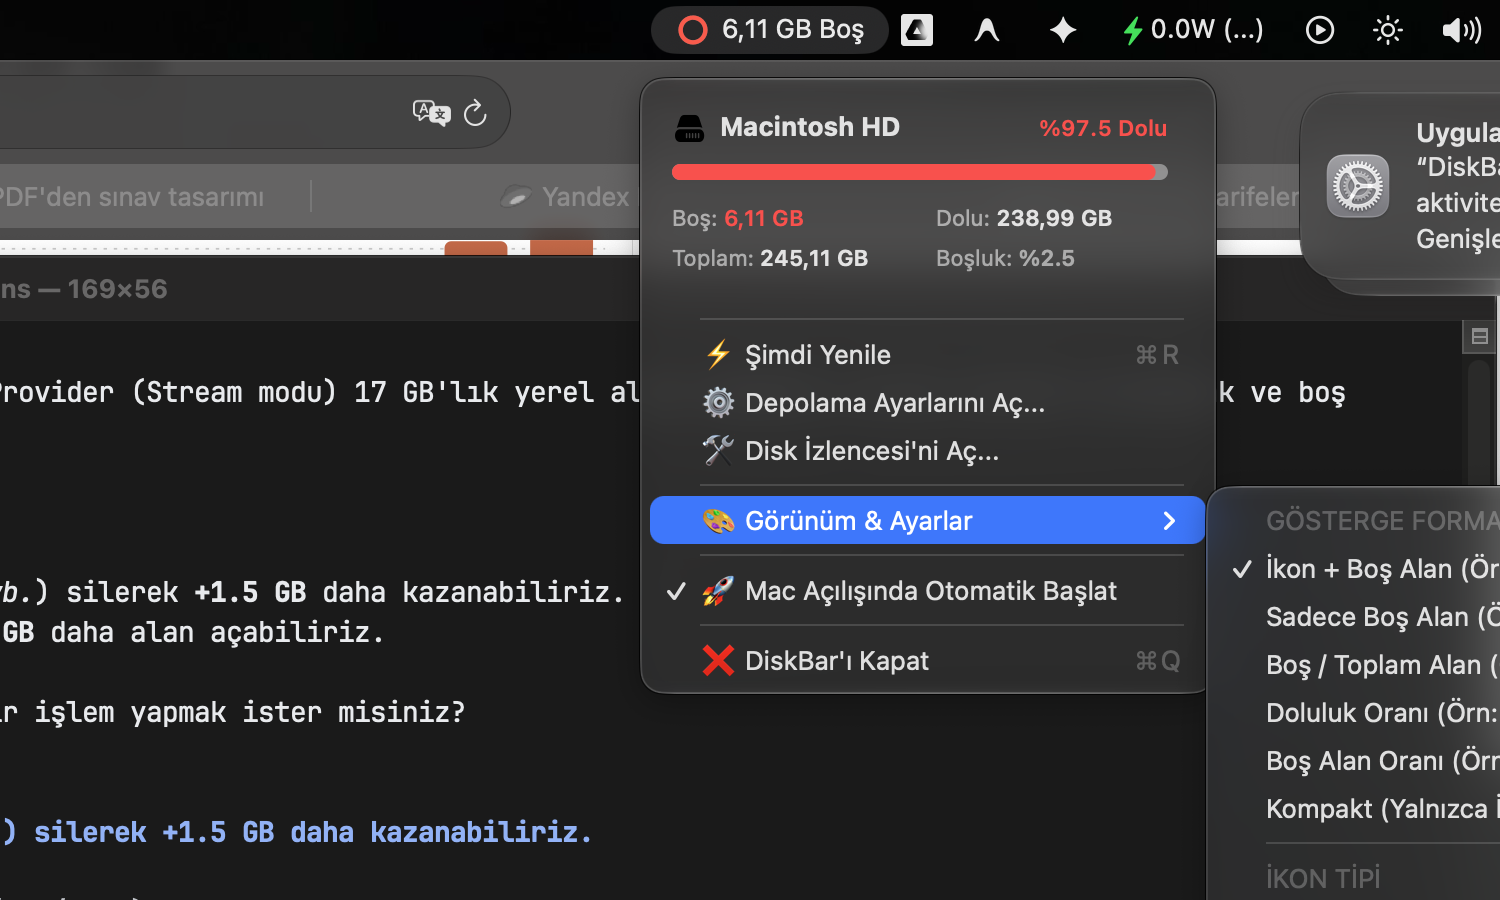
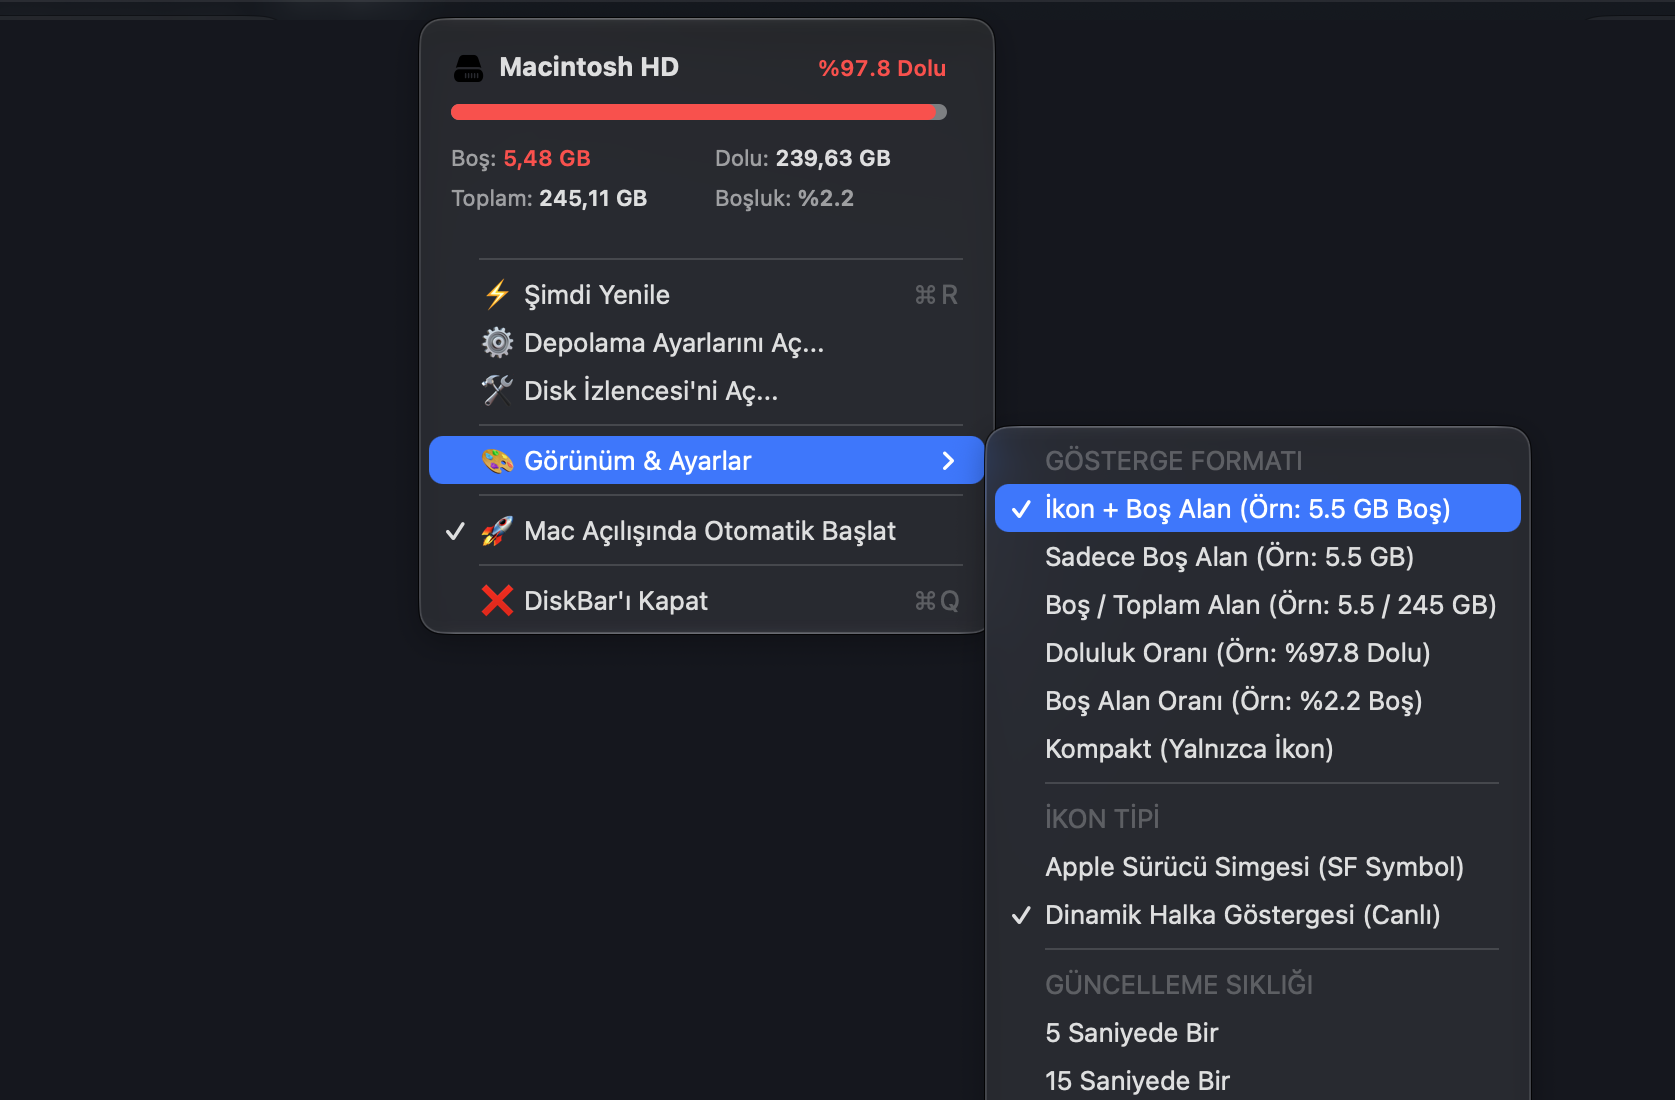
docs: Update clean screenshots with zero background noise, add DMG & curl install methods

diff --git a/README.md b/README.md
@@ -13,8 +13,15 @@
   <img src="https://img.shields.io/badge/Architecture-Apple%20Silicon%20%7C%20Intel-purple" alt="Universal" />
   <img src="https://img.shields.io/badge/Swift-5.9%2B-orange?logo=swift" alt="Swift 5.9+" />
   <img src="https://img.shields.io/badge/CPU%20Usage-0.0%25-brightgreen" alt="0.0% CPU" />
+  <img src="https://img.shields.io/badge/Security-100%25%20Offline%20%7C%20No%20Sudo-success" alt="Security" />
   <img src="https://img.shields.io/badge/License-MIT-green" alt="MIT License" />
   <a href="https://github.com/kuarezma/DiskBar/stargazers"><img src="https://img.shields.io/github/stars/kuarezma/DiskBar?style=social" alt="GitHub Stars" /></a>
+</p>
+
+<p align="center">
+  <a href="https://github.com/kuarezma/DiskBar/releases/latest/download/DiskBar.dmg">
+    <img src="https://img.shields.io/badge/Download-DiskBar.dmg-2ea44f?style=for-the-badge&logo=apple&logoColor=white" alt="Download DMG" />
+  </a>
 </p>
 
 ---
@@ -22,24 +29,51 @@
 ## 📸 Screenshots
 
 <p align="center">
-  <b>Menü Çubuğu Canlı Göstergesi & Uyarı Halkası</b><br/>
-  <img src="assets/menubar_screenshot.png" width="700" alt="DiskBar Menubar Screenshot" />
+  <b>Menu Bar Real-Time Indicator & Warning Ring</b><br/>
+  <img src="assets/menubar_screenshot.png" width="400" alt="DiskBar Menubar Screenshot" />
 </p>
 
 <p align="center">
-  <img src="assets/menu_opened.png" width="440" alt="DiskBar Dropdown Card" />
+  <img src="assets/menu_opened.png" width="380" alt="DiskBar Dropdown Card" />
   &nbsp;&nbsp;&nbsp;&nbsp;
-  <img src="assets/submenu_opened.png" width="440" alt="DiskBar Submenu Preferences" />
+  <img src="assets/submenu_opened.png" width="480" alt="DiskBar Submenu Preferences" />
 </p>
 
 ---
 
-## ⚡ Features
+## 📥 Installation
+
+Choose whichever method you prefer:
+
+### Option 1: Direct Download (`.dmg`) — Recommended for Most Users
+1. Download **[DiskBar.dmg](https://github.com/kuarezma/DiskBar/releases/latest/download/DiskBar.dmg)** from the [Releases](https://github.com/kuarezma/DiskBar/releases) page.
+2. Open `DiskBar.dmg` and drag **DiskBar** into your **Applications** folder.
+3. Open **DiskBar** from your Applications folder. It will appear on your top-right menu bar.
+
+### Option 2: One-Line Terminal Install (No Clone Needed)
+Open Terminal and run:
+
+```bash
+curl -fsSL https://raw.githubusercontent.com/kuarezma/DiskBar/main/install.sh | bash
+```
+
+> **Security Note:** Does **not** require `sudo` or administrator privileges. It compiles the open-source code directly on your machine and places the binary into `~/Applications/DiskBar.app`.
+
+### Option 3: Build from Source
+```bash
+git clone https://github.com/kuarezma/DiskBar.git
+cd DiskBar
+./install.sh
+```
+
+---
+
+## ⚡ Key Features
 
 - **🚀 Real-Time Disk Monitoring via Kernel `FSEvents`:**  
-  Unlike standard apps that merely poll every few minutes, DiskBar hooks directly into macOS `CoreServices.FSEventStream`. When you download a file, compile a project, or empty the Trash, your free space updates instantly (< 0.8s) with smart event coalescing.
+  Unlike standard apps that merely poll on timers, DiskBar hooks directly into macOS `CoreServices.FSEventStream`. When you download a file, build an Xcode project, or empty the Trash, your free space updates instantly (< 0.8s) with smart event coalescing.
 - **🍏 100% Pure Native & Lightweight:**  
-  Zero Electron, zero heavy third-party frameworks. Pure Swift and AppKit. Uses **0.0% CPU** at idle and consumes minimal memory.
+  Zero Electron, zero heavy third-party dependencies. Pure Swift and AppKit. Uses **0.0% CPU** at idle and consumes minimal memory (~55 MB runtime).
 - **🎨 Dynamic Circular Gauge & SF Symbols:**  
   Includes a custom-drawn circular progress ring that smoothly tracks space usage. When storage drops below critical levels (< 10 GB or < 10%), it automatically turns red/orange to alert you.
 - **🎛 Elegant Dropdown Card:**  
@@ -50,39 +84,8 @@
   Seamlessly launches on system login without taking up Dock space (`LSUIElement = true`). Can be toggled on/off with a single click in the menu.
 - **❌ Quick Quit Anytime:**  
   Right-click or click to exit cleanly via `DiskBar'ı Kapat (⌘Q)`.
-
----
-
-## 🚀 Quick Install (One-Liner)
-
-Clone and install with one simple command:
-
-```bash
-git clone https://github.com/kuarezma/DiskBar.git ~/DiskBar
-cd ~/DiskBar && ./install.sh
-```
-
-DiskBar will be compiled natively for your architecture (Apple Silicon / Intel), placed into `~/Applications/DiskBar.app`, and automatically started in your menu bar.
-
----
-
-## 🛠 Build from Source
-
-### Requirements
-- macOS 12.0 (Monterey) or later
-- Xcode Command Line Tools (`xcode-select --install` or Swift toolchain)
-
-### Manual Build
-```bash
-git clone https://github.com/kuarezma/DiskBar.git
-cd DiskBar
-
-# Compile and package .app bundle
-./build.sh
-
-# Run as background service
-./setup_service.sh
-```
+- **🔒 Privacy & Trust:**  
+  100% offline. Zero network connections, zero telemetry, zero analytics.
 
 ---
 
@@ -95,7 +98,7 @@ You can customize the appearance directly from the **`🎨 Görünüm & Ayarlar`
 | **İkon + Boş Alan** (Default) | `⭕ 6.1 GB Boş` |
 | **Sadece Boş Alan** | `6.1 GB Boş` |
 | **Boş / Toplam Alan** | `6.1 / 245.1 GB` |
-| **Doluluk Oranı** | `%97.5 Dolu` |
+| **Doluluk Oranı** | `%97.8 Dolu` |
 | **Kompakt** | `⭕` *(Yalnızca Canlı Halka / İkon)* |
 
 ---
@@ -104,13 +107,14 @@ You can customize the appearance directly from the **`🎨 Görünüm & Ayarlar`
 
 **DiskBar**, MacBook kullanıcıları için özel olarak geliştirilmiş, menü çubuğunda (sağ üstte) diskinizde ne kadar boş alan kaldığını anlık ve canlı olarak gösteren yerel bir macOS uygulamasıdır.
 
+- **Güvenli ve Şeffaf:** %100 açık kaynaklıdır; hiçbir internet bağlantısı veya veri toplama içermez. `sudo` yetkisi gerektirmez.
 - **Anlık Takip:** Dosya indirdiğinizde, sildiğinizde veya Xcode çıktısı oluştuğunda macOS çekirdeğinin `FSEvents` mekanizması ile milisaniyeler içinde güncellenir.
 - **Sıfır Yük:** Saf Swift/Cocoa ile yazılmıştır; arka planda işlemcinizi yormaz (boşta %0.0 CPU).
-- **Kolay Kapatma & Başlatma:** Menü çubuğundaki simgeye tıklayarak `⌘Q` ile dilediğiniz zaman kapatabilir veya Mac açılışında otomatik başlamasını sağlayabilirsiniz.
+- **İndirme & Kurulum:** İster `.dmg` dosyasını indirip Uygulamalar klasörüne sürükleyin, ister Terminal'den `curl -fsSL https://raw.githubusercontent.com/kuarezma/DiskBar/main/install.sh | bash` ile kurun.
 
 ---
 
 ## 📄 License
 
-This project is licensed under the [MIT License](LICENSE).
+This project is licensed under the [MIT License](LICENSE).  
 Feel free to star ⭐ the project, open issues, or submit pull requests!
